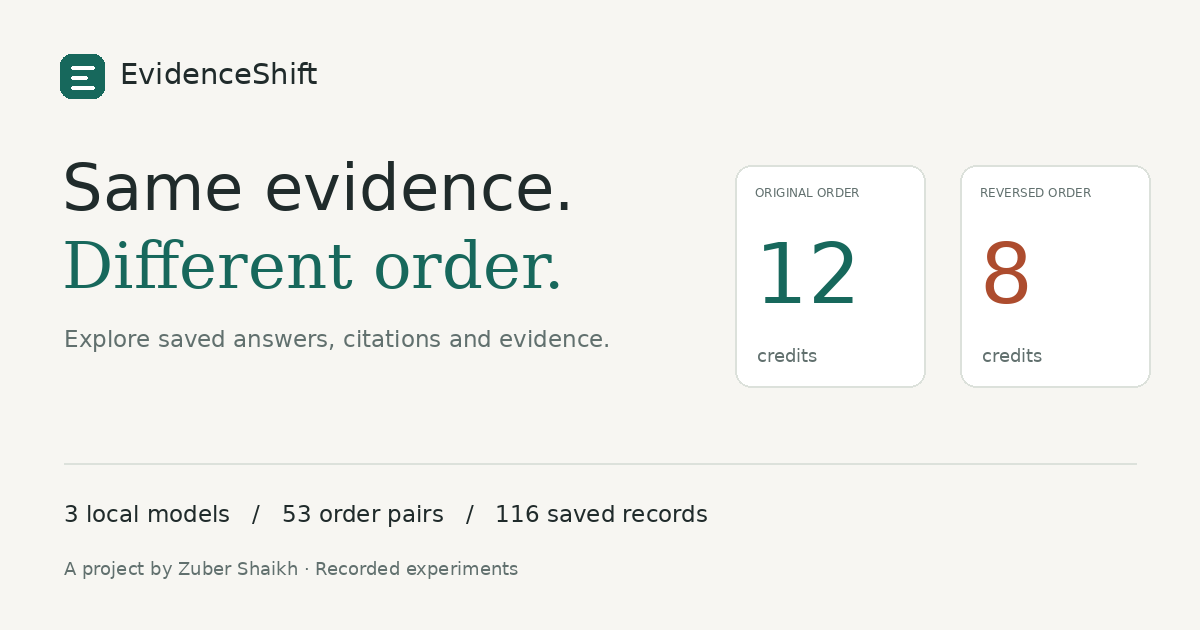
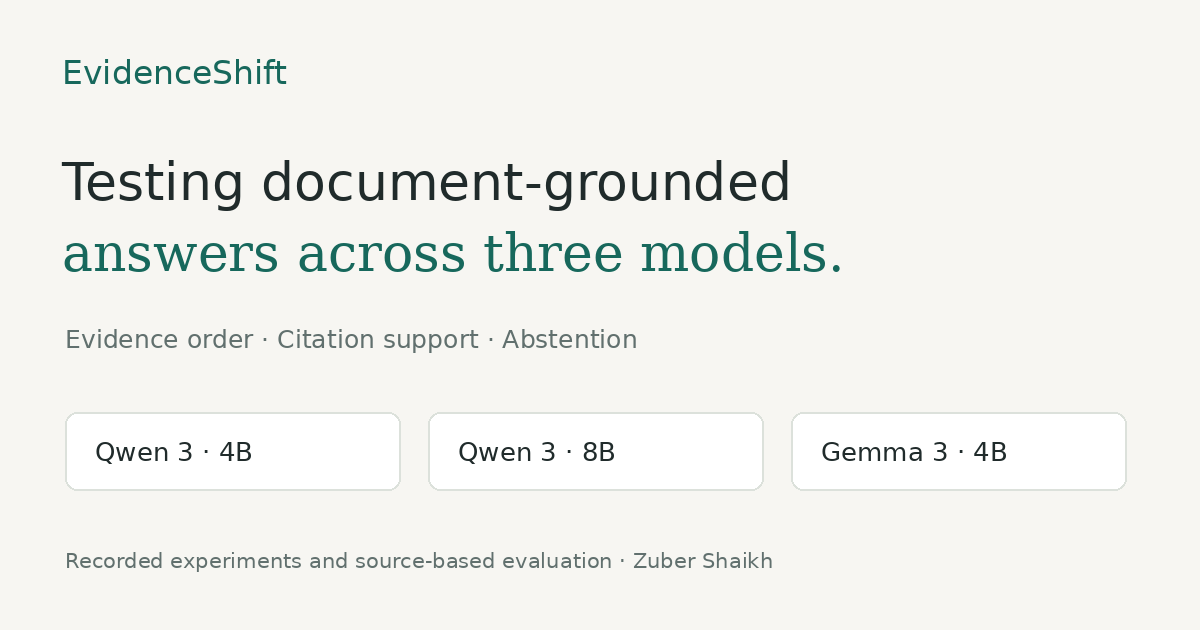
Simplify research narrative and show all three model comparisons

diff --git a/website/index.html b/website/index.html
@@ -21,7 +21,7 @@
   <header class="site-header">
     <a class="brand" href="#home" aria-label="EvidenceShift home"><img src="mark.svg" width="30" height="30" alt=""><span>Evidence<span class="brand-light">Shift</span></span></a>
     <nav aria-label="Main navigation">
-      <a href="#explore">Explore</a><a href="#results">Results</a><a href="#method">Method</a>
+      <a href="#method">Method</a><a href="#results">Results</a><a href="#conclusions">Conclusions</a>
       <a class="repository-link" href="https://github.com/Zuber18/EvidenceShift" target="_blank" rel="noopener noreferrer">GitHub <span aria-hidden="true">↗</span></a>
     </nav>
     <button class="theme-button" id="theme-toggle" type="button" aria-label="Switch color theme" title="Switch color theme">◐</button>
@@ -30,37 +30,36 @@
   <main id="home">
     <section class="hero section-wrap" aria-labelledby="hero-title">
       <div class="hero-copy">
-        <p class="eyebrow"><span class="status-dot"></span> An open experiment in grounded answers</p>
-        <h1 id="hero-title">Same evidence.<br><span>Different order.</span><br>What changes?</h1>
-        <p class="hero-description">A citation can be real and the answer can still be wrong. Explore my local-model experiments to see where evidence order, reasoning, and abstention come apart.</p>
-        <div class="hero-actions"><a class="button button-primary" href="#explore">Explore the evidence <span aria-hidden="true">↗</span></a><a class="text-link" href="#method">Read the approach <span aria-hidden="true">→</span></a></div>
-        <div class="hero-facts" aria-label="Dataset overview"><div><strong>3</strong><span>local models</span></div><div><strong>53</strong><span>paired comparisons</span></div><div><strong>116</strong><span>saved records<small>including 10 code controls</small></span></div></div>
-      </div>
-      <div class="hero-artifact" aria-label="An actual arithmetic failure from the confirmation experiment">
-        <div class="artifact-top"><span class="mono">CASE 06 / HARBOR WORKSHOP</span><span class="mini-pill">Actual saved result</span></div>
-        <p class="artifact-source">Five kits. First two free.<br>Four credits per additional kit.</p>
-        <div class="source-strips" aria-hidden="true"><i></i><i></i><i></i><span>same passages</span><i></i><i></i><i></i></div>
-        <div class="artifact-answers"><div><span class="mono">ORIGINAL ORDER</span><strong class="number-good">12<span>credits</span></strong><span class="artifact-verdict"><span class="small-dot good"></span>Supported answer</span></div><div><span class="mono">REVERSED ORDER</span><strong class="number-bad">8<span>credits</span></strong><span class="artifact-verdict"><span class="small-dot bad"></span>Arithmetic error</span></div></div>
-        <div class="artifact-bottom"><span class="mono">QWEN 3 · 8B</span><span>Both cite the relevant passage.</span></div>
+        <p class="eyebrow">01 / THE PROJECT</p>
+        <h1 id="hero-title">Can the answer survive<br><span>a change in evidence order?</span></h1>
+        <p class="hero-description">EvidenceShift examines the reliability of document-grounded answers across Qwen 3 4B, Qwen 3 8B and Gemma 3 4B. I compare saved outputs with their source passages to check factual support, citation use and abstention.</p>
+        <div class="hero-facts" aria-label="Dataset overview"><div><strong>3</strong><span>local models</span></div><div><strong>53</strong><span>evidence-order pairs</span></div><div><strong>116</strong><span>saved records<small>including 10 code controls</small></span></div></div>
       </div>
     </section>
-
-    <div class="context-ribbon"><div class="section-wrap ribbon-inner"><span><span class="small-dot"></span> Recorded experiment explorer</span><p>Every displayed answer was saved during a local run. Changing a filter does not call a model.</p><span class="mono">20 OCT 2026</span></div></div>
-
+    <section class="section-wrap explanation-section" aria-labelledby="question-title">
+      <p class="eyebrow">02 / WHAT WE ARE TESTING</p><h2 id="question-title">A cited answer still needs checking.</h2>
+      <div class="explanation-columns"><div><h3>What usually happens</h3><p>A document QA system retrieves relevant passages and supplies them to a model, which returns an answer with citations. A citation shows where to look; its presence alone does not establish that the answer follows from the passage.</p></div><div><h3>The experiment</h3><p>If the question and evidence stay the same, does changing passage order change the answer? I also check whether models preserve conditions, distinguish people and events, and abstain when the supplied text does not contain an answer.</p></div></div>
+    </section>
+    <section class="section-wrap method-section" id="method" aria-labelledby="method-title">
+      <div class="method-intro"><p class="eyebrow">03 / HOW WE TEST AND EVALUATE</p><h2 id="method-title">Same inputs.<br>Separate checks.</h2><p>The local project uses MiniLM/Chroma semantic document retrieval. These recorded comparisons start with fixed saved passages, so they isolate response behavior without rerunning retrieval.</p><a class="text-link" href="https://github.com/Zuber18/EvidenceShift/blob/main/docs/METHODOLOGY.md" target="_blank" rel="noopener noreferrer">Full methodology ↗</a></div>
+      <div class="method-steps"><article><span class="step-index">01</span><div><h3>Supply the same evidence in two orders</h3><p>Keep the question, model, passage text, source IDs and request options fixed within each pair. Run the original passage order, then its exact reverse.</p></div></article><article><span class="step-index">02</span><div><h3>Test three complementary protocols</h3><p>Compare direct answers across all three models; compare whole-passage and text-unit ID selection across all three; then examine eight additional fictional cases using Qwen 3 8B. The last protocol contains only that model.</p></div></article><article><span class="step-index">03</span><div><h3>Review meaning as well as format</h3><p>Software checks completion, citation IDs and prescribed abstention. I manually review factual support, citation relevance, qualifications and completeness against the saved passages. Failures and incomplete outputs remain in the record.</p></div></article></div>
+      <div class="limits-note"><strong>How to read the counts</strong><p>The three protocols use different cases and output formats, so their results are reported separately. No-context records are code controls that make no model call; they are excluded from model-call totals. Changing a website selection displays saved data and does not run inference.</p></div>
+    </section>
+    <section class="section-wrap overview-section" id="results" aria-labelledby="overview-title"><p class="eyebrow">04 / RESULTS ACROSS THREE MODELS</p><h2 id="overview-title">All three models, in view.</h2><p class="section-description">The direct-answer baseline contains five questions in two evidence orders for each model: 10 model calls each. The summaries below describe that baseline only.</p><div class="model-overview" id="model-overview"></div></section>
     <section class="section-wrap explorer-section" id="explore" aria-labelledby="explorer-title">
-      <div class="section-heading"><div><p class="eyebrow">01 / FOLLOW THE EVIDENCE</p><h2 id="explorer-title">Look beyond the citation.</h2><p>Pick a recorded question. Compare the answers, then inspect what the sources actually say.</p></div><button class="button button-outline" id="share-comparison" type="button">Copy comparison link <span aria-hidden="true">↗</span></button></div>
+      <div class="section-heading"><div><p class="eyebrow">RECORDED COMPARISONS</p><h2 id="explorer-title">Compare the saved outputs.</h2><p>Choose a question to see every tested model in both evidence orders. Select a model below to inspect its source passages.</p></div><button class="button button-outline" id="share-comparison" type="button">Copy comparison link <span aria-hidden="true">↗</span></button></div>
       <div class="load-state" id="load-state" role="status">Loading the published experiment records…</div>
       <div id="explorer-content" hidden>
         <div class="experiment-tabs" id="experiment-tabs" role="group" aria-label="Recorded experiment"></div>
         <div class="experiment-intro"><p id="experiment-description"></p><a id="experiment-review" href="https://github.com/Zuber18/EvidenceShift/tree/main/results/published/reviews" target="_blank" rel="noopener noreferrer">View assessment <span aria-hidden="true">↗</span></a></div>
         <div class="filter-grid">
           <label class="field question-field">Recorded question<select id="case-select"></select></label>
-          <label class="field">Local model<select id="model-select"></select></label>
+          <label class="field">Inspect sources for<select id="model-select"></select></label>
           <label class="field" id="representation-field" hidden>Evidence representation<select id="representation-select"></select></label>
         </div>
         <div class="comparison-heading"><h3 id="selected-question"></h3><span class="quiet-pill" id="pair-status">Same passages · exact reversal</span></div>
-        <div class="answer-grid" id="answer-grid" aria-label="Saved answer comparison"></div>
-        <div class="comparison-footer"><p>Assessment: project-owner manual review against saved passages. Mechanical checks are shown separately.</p><button class="text-link" id="download-pair" type="button">Download this pair <span aria-hidden="true">↓</span></button></div>
+        <div class="model-comparisons" id="answer-grid" aria-label="Saved answer comparison"></div>
+        <div class="comparison-footer"><p>Assessment: project-owner manual review against saved passages. Mechanical checks are shown separately.</p><button class="text-link" id="download-pair" type="button">Download all model pairs <span aria-hidden="true">↓</span></button></div>
         <div class="evidence-section">
           <div class="evidence-heading"><div><p class="eyebrow">THE SOURCE RECORD</p><h3>Evidence in the order supplied</h3><p>Click a citation above to locate its passage. Source text is preserved as indexed.</p></div><div class="segmented" role="group" aria-label="Source passage order"><button id="evidence-original" type="button" aria-pressed="true">Original</button><button id="evidence-reversed" type="button" aria-pressed="false">Reversed</button></div></div>
           <div class="evidence-toolbar"><span id="evidence-count"></span><label><input type="checkbox" id="cited-only"> Show cited passages only</label></div>
@@ -69,9 +68,9 @@
       </div>
     </section>
 
-    <section class="results-section" id="results" aria-labelledby="results-title">
+    <section class="results-section" id="trial-results" aria-labelledby="results-title">
       <div class="section-wrap">
-        <div class="section-heading"><div><p class="eyebrow">02 / THE RECORDED RESULTS</p><h2 id="results-title">Keep the failures in view.</h2><p>Three experiments answer different questions. Their denominators stay separate.</p></div><button class="button button-outline" id="download-results" type="button">Download filtered CSV <span aria-hidden="true">↓</span></button></div>
+        <div class="section-heading"><div><p class="eyebrow">EXPERIMENT DETAIL</p><h2 id="results-title">Inspect the selected experiment.</h2><p>Counts below follow the selected experiment above. The record table includes every model tested in that experiment.</p></div><button class="button button-outline" id="download-results" type="button">Download filtered CSV <span aria-hidden="true">↓</span></button></div>
         <div class="result-metrics" id="result-metrics"></div>
         <div class="results-summary"><div class="distribution-panel"><h3 id="distribution-title">Recorded assessments</h3><div id="distribution"></div><p class="fine-print">These are counts of saved trials, not an accuracy estimate over arbitrary documents.</p></div><div class="model-panel"><h3>Models in this experiment</h3><div id="model-summary"></div><p class="fine-print">Completion is a software check. It does not establish factual correctness.</p></div></div>
         <div class="records-heading"><h3>Browse the trial records</h3><div class="record-filters"><label class="field compact-field">Assessment<select id="outcome-filter"><option value="all">All assessments</option></select></label><label class="control-checkbox"><input id="include-controls" type="checkbox"> Include code controls</label></div></div>
@@ -82,13 +81,7 @@
       </div>
     </section>
 
-    <section class="section-wrap method-section" id="method" aria-labelledby="method-title">
-      <div class="method-intro"><p class="eyebrow">03 / WHAT I AM MEASURING</p><h2 id="method-title">Structure is not<br>the same as support.</h2><p>I built EvidenceShift to make the difference inspectable: what the model received, what it returned, and whether its answer follows from the cited source.</p><a class="text-link" href="https://github.com/Zuber18/EvidenceShift/blob/main/docs/METHODOLOGY.md" target="_blank" rel="noopener noreferrer">Read the full methodology <span aria-hidden="true">↗</span></a></div>
-      <div class="method-steps"><article><span class="step-index">01</span><div><h3>Hold the evidence fixed</h3><p>Keep the question, passage text, source IDs, model, and request options fixed. Reverse only the passage order.</p></div></article><article><span class="step-index">02</span><div><h3>Separate the checks</h3><p>Inspect completion and citation membership separately from factual support, conditions, relevance, and completeness.</p></div></article><article><span class="step-index">03</span><div><h3>Retain the original output</h3><p>Keep failed completions, false abstentions, and wrong answers. Review against saved passages without replacing failures with favorable reruns.</p></div></article></div>
-      <div class="limits-note"><strong>What this explorer establishes</strong><p>It presents recorded outcomes from limited local experiments. The fixed-context comparisons do not test new document ingestion or retrieval. Single outputs per order are not a population-level causal estimate. The reserved questions were not independently held out.</p></div>
-    </section>
-
-    <section class="next-section section-wrap" aria-labelledby="next-title"><div><p class="eyebrow">NEXT / BRING YOUR OWN DOCUMENT</p><h2 id="next-title">The live workspace<br>is the next experiment.</h2><p>This website explores saved records. The local project already supports PDF, DOCX, TXT and Markdown with MiniLM/Chroma semantic retrieval. Public live inference is not connected here yet.</p></div><a class="button button-primary" href="https://github.com/Zuber18/EvidenceShift#start-the-local-viewer" target="_blank" rel="noopener noreferrer">Run the local workspace <span aria-hidden="true">↗</span></a></section>
+    <section class="section-wrap conclusion-section" id="conclusions" aria-labelledby="conclusion-title"><p class="eyebrow">05 / CONCLUSIONS</p><h2 id="conclusion-title">Citation validity is only the first check.</h2><ol class="conclusion-list"><li><strong>Evidence order can change an answer.</strong> In the Qwen 8B confirmation, the same kit-pricing passage led to 12 credits in one order and 8 in the other. Both outputs cited the relevant source.</li><li><strong>Completing a response is not the same as answering reliably.</strong> The direct baseline retained Qwen 4B output-limit failures and errors or unjustified abstentions from the other models. The evidence-selection matrix passed structural checks while still returning irrelevant or incomplete evidence.</li><li><strong>Abstention needs its own review.</strong> Some answers supplied a correct core fact and then claimed the evidence was insufficient. Others answered questions whose facts were absent from the source.</li><li><strong>These results describe the saved tests.</strong> They do not establish a universal model ranking or an accuracy rate over arbitrary documents. Single outputs per order do not establish a population-level causal effect, and the additional questions were not independently held out.</li></ol><p class="conclusion-close">The practical lesson: inspect what each citation supports, preserve the conditions that matter, and retain failures alongside successful outputs.</p></section>
   </main>
 
   <footer class="site-footer section-wrap"><div><a class="brand" href="#home"><img src="mark.svg" width="26" height="26" alt=""><span>Evidence<span class="brand-light">Shift</span></span></a><p>A project by Zuber Shaikh.</p></div><div class="footer-links"><a href="https://github.com/Zuber18/EvidenceShift" target="_blank" rel="noopener noreferrer">Source code ↗</a><a href="https://github.com/Zuber18/EvidenceShift/tree/main/references" target="_blank" rel="noopener noreferrer">References ↗</a><a href="https://github.com/Zuber18/EvidenceShift/blob/main/LICENSE" target="_blank" rel="noopener noreferrer">MIT license ↗</a><span>No live inference · No account required</span></div></footer>

diff --git a/website/app.js b/website/app.js
@@ -1,7 +1,7 @@
-import {label, modelLabel, tone, pairFor, filteredRecords, citationIds, assessmentDistribution, toCsv, safeState} from './core.mjs';
+import {label, modelLabel, tone, pairFor, filteredRecords, citationIds, assessmentDistribution, toCsv, safeState, modelComparisons} from './core.mjs';
 
 const $ = id => document.getElementById(id);
-const state = {data:null, experiment:'direct_confirmation',model:'qwen3:8b',representation:'direct',caseId:'confirm_6',order:'retrieved',outcome:'all',controls:false,citedOnly:false,highlight:null};
+const state = {data:null, experiment:'direct_answer',model:'qwen3:8b',representation:'direct',caseId:'1f939d31',order:'retrieved',outcome:'all',controls:false,citedOnly:false,highlight:null};
 let toastTimer;
 
 /** All saved source/model content is inserted as text, never trusted HTML. */
@@ -28,7 +28,7 @@ function fillSelect(element, items, selected) {
 }
 function renderFilters() {
   const exp=experiment();
-  $('experiment-tabs').replaceChildren(...state.data.experiments.map((item,index)=>{
+  $('experiment-tabs').replaceChildren(...[...state.data.experiments].sort((a,b)=>['direct_answer','model_matrix','direct_confirmation'].indexOf(a.id)-['direct_answer','model_matrix','direct_confirmation'].indexOf(b.id)).map((item,index)=>{
     const button=node('button','experiment-tab');button.type='button';button.setAttribute('aria-pressed',String(item.id===state.experiment));
     button.append(node('span','tab-number',String(index+1).padStart(2,'0')),node('span','',item.title));
     button.addEventListener('click',()=>{
@@ -45,7 +45,7 @@ function renderFilters() {
   const multiple=exp.representations.length>1;
   $('representation-field').hidden=!multiple;
   document.querySelector('.filter-grid').classList.toggle('has-representation',multiple);
-  const outcomes=[...new Set(exp.records.filter(r=>r.model===state.model && r.representation===state.representation && (state.controls||r.order!=='no_context')).map(r=>r.assessment))].sort();
+  const outcomes=[...new Set(exp.records.filter(r=>r.representation===state.representation && (state.controls||r.order!=='no_context')).map(r=>r.assessment))].sort();
   if (!outcomes.includes(state.outcome)) state.outcome='all';
   fillSelect($('outcome-filter'),[['all','All assessments'],...outcomes.map(v=>[v,label(v)])],state.outcome);
 }
@@ -62,7 +62,7 @@ function renderAnswerText(container, text, record) {
       button.setAttribute('aria-label','Inspect cited source '+ids.join(', '));
       button.title=ids.length>1?'Open the first passage in this citation group. All passages remain available below.':'Open this source passage';
       button.addEventListener('click',()=>{
-        state.order=record.order;state.highlight=ids[0];renderEvidence();syncUrl();
+        state.model=record.model;state.order=record.order;state.highlight=ids[0];state.citedOnly=false;$('cited-only').checked=false;renderFilters();renderEvidence();syncUrl();
         const target=document.getElementById('passage-'+ids[0]);
         if (target) {target.scrollIntoView({behavior:matchMedia('(prefers-reduced-motion: reduce)').matches?'auto':'smooth',block:'nearest'});target.focus({preventScroll:true});}
       });container.append(button);
@@ -98,7 +98,15 @@ function renderAnswer(record,order) {
 function renderPair() {
   const records=pair();
   $('selected-question').textContent=experiment().cases.find(c=>c.id===state.caseId).question;
-  $('answer-grid').replaceChildren(...['retrieved','reversed'].map(order=>records[order]?renderAnswer(records[order],order):node('p','load-state','This saved order is unavailable.')));
+  $('answer-grid').replaceChildren(...modelComparisons(experiment(),state.representation,state.caseId).map(({model,pair:records})=>{
+    const group=node('section','model-comparison');
+    const heading=node('div','model-comparison-heading');heading.append(node('h4','',modelLabel(model)));
+    const inspect=node('button','text-link','Inspect this model’s sources ↓');inspect.type='button';
+    inspect.addEventListener('click',()=>{state.model=model;state.highlight=null;renderFilters();renderEvidence();syncUrl();document.querySelector('.evidence-section').scrollIntoView({behavior:'smooth',block:'start'});});
+    heading.append(inspect);const grid=node('div','answer-grid');
+    grid.append(...['retrieved','reversed'].map(order=>records[order]?renderAnswer(records[order],order):node('p','load-state','This saved order is unavailable.')));
+    group.append(heading,grid);return group;
+  }));
   const same=records.retrieved && records.reversed && JSON.stringify(records.retrieved.context_ids)===JSON.stringify([...records.reversed.context_ids].reverse());
   $('pair-status').textContent=same?`${records.retrieved.context_ids.length} passages · exact reversal`:'Inspect the saved context';
 }
@@ -110,7 +118,7 @@ function renderEvidence() {
   if (!record) {$('evidence-list').replaceChildren();return;}
   const cited=citationIds(record.answer,record.context_ids);
   const ids=state.citedOnly?record.context_ids.filter(id=>cited.has(id)):record.context_ids;
-  $('evidence-count').textContent=`${ids.length} of ${record.context_ids.length} supplied passages · ${state.order==='retrieved'?'original':'reversed'} order`;
+  $('evidence-count').textContent=`${modelLabel(state.model)} · ${ids.length} of ${record.context_ids.length} supplied passages · ${state.order==='retrieved'?'original':'reversed'} order`;
   const elements=ids.map(id=>{
     const passage=state.data.passages[id],article=node('article','passage'+(state.highlight===id?' highlighted':''));
     article.id='passage-'+id;article.tabIndex=-1;
@@ -144,10 +152,28 @@ function renderSummary() {
   $('result-notes').replaceChildren(node('strong','','Reading this experiment. '),document.createTextNode(note));
 }
 
-function tableRecords() {return filteredRecords(experiment(),state.model,state.representation,state.outcome,state.controls);}
+/** The overview always uses the three-model direct baseline, regardless of the selected detail tab. */
+function renderModelOverview() {
+  const baseline=state.data.experiments.find(e=>e.id==='direct_answer');
+  const descriptions={
+    'qwen3:4b':'Six outputs reached the generation limit. The other four placed analysis in the answer field.',
+    'qwen3:8b':'Three supported answers and four justified abstentions. The remaining trials include one role reversal and two unjustified abstentions.',
+    'gemma3:4b':'Three justified abstentions. The remaining trials contain contradictions, wrong facts, citation defects or unsupported extra text.'
+  };
+  $('model-overview').replaceChildren(...['qwen3:4b','qwen3:8b','gemma3:4b'].map(model=>{
+    const records=baseline.records.filter(r=>r.model===model&&r.order!=='no_context');
+    const completed=records.filter(r=>r.checks.completed??r.status==='candidate_recorded').length;
+    const card=node('article','model-overview-card');card.append(node('h3','',modelLabel(model)),node('p','model-overview-count',`${records.length} model calls · ${completed} completed`),node('p','',descriptions[model]));
+    const button=node('button','text-link','Inspect saved comparisons ↓');button.type='button';
+    button.addEventListener('click',()=>{Object.assign(state,safeState(state.data,new URLSearchParams({experiment:'direct_answer',model})),{outcome:'all',highlight:null,controls:false,citedOnly:false});$('include-controls').checked=false;$('cited-only').checked=false;renderAll();$('explore').scrollIntoView({behavior:'smooth',block:'start'});});
+    card.append(button);return card;
+  }));
+}
+
+function tableRecords() {return filteredRecords(experiment(),'all',state.representation,state.outcome,state.controls);}
 function renderTable() {
   const records=tableRecords();
-  $('table-caption').textContent=`${records.length} saved records · ${modelLabel(state.model)}${state.representation==='direct'?'':' · '+(state.representation==='passages'?'whole passages':'text units')}${state.controls?' · controls included':' · code controls excluded'}. Figures above describe the entire selected experiment.`;
+  $('table-caption').textContent=`${records.length} saved records · ${experiment().models.length} tested model${experiment().models.length===1?'':'s'}${state.representation==='direct'?'':' · '+(state.representation==='passages'?'whole passages':'text units')}${state.controls?' · controls included':' · code controls excluded'}. Figures above describe the entire selected experiment.`;
   $('records-body').replaceChildren(...records.map(record=>{
     const row=node('tr');
     row.append(node('td','',record.question),node('td','',modelLabel(record.model)),node('td','',record.order==='no_context'?'No context':record.order==='retrieved'?'Original':'Reversed'));
@@ -157,7 +183,7 @@ function renderTable() {
       const link=node('a','','↗');link.href=sourceUrl(record.raw_path);link.target='_blank';link.rel='noopener noreferrer';link.setAttribute('aria-label','Inspect zero-model-call control record');action.append(link);
     } else {
       const button=node('button','','↗');button.type='button';button.setAttribute('aria-label','Inspect '+record.question+' in '+record.order+' order');
-      button.addEventListener('click',()=>{state.caseId=record.case_id;state.order=record.order;state.highlight=null;renderFilters();renderPair();renderEvidence();syncUrl();document.getElementById('explore').scrollIntoView({behavior:'smooth',block:'start'});});action.append(button);
+      button.addEventListener('click',()=>{state.model=record.model;state.caseId=record.case_id;state.order=record.order;state.highlight=null;renderFilters();renderPair();renderEvidence();syncUrl();document.getElementById('explore').scrollIntoView({behavior:'smooth',block:'start'});});action.append(button);
     }
     row.append(action);return row;
   }));
@@ -177,8 +203,8 @@ function initializeEvents() {
   $('outcome-filter').addEventListener('change',event=>{state.outcome=event.target.value;renderTable();});
   $('include-controls').addEventListener('change',event=>{state.controls=event.target.checked;renderFilters();renderTable();});
   $('download-pair').addEventListener('click',()=>{
-    const records=Object.values(pair()),ids=new Set(records.flatMap(r=>r.context_ids));
-    download(`evidenceshift-${state.experiment}-${state.caseId}-${state.model.replace(':','-')}.json`,JSON.stringify({mode:'recorded_results',source_commit:state.data.source_commit,records,passages:[...ids].map(id=>state.data.passages[id])},null,2)+'\n','application/json');
+    const records=modelComparisons(experiment(),state.representation,state.caseId).flatMap(item=>Object.values(item.pair)),ids=new Set(records.flatMap(r=>r.context_ids));
+    download(`evidenceshift-${state.experiment}-${state.caseId}-all-models.json`,JSON.stringify({mode:'recorded_results',source_commit:state.data.source_commit,records,passages:[...ids].map(id=>state.data.passages[id])},null,2)+'\n','application/json');
   });
   $('download-results').addEventListener('click',()=>download(`evidenceshift-${state.experiment}-filtered.csv`,toCsv(tableRecords()),'text/csv;charset=utf-8'));
   $('share-comparison').addEventListener('click',async()=>{
@@ -203,7 +229,7 @@ async function start() {
     if (!response.ok) throw new Error('Dataset request failed');
     const data=await response.json();
     if (data.schema_version!==1 || !data.experiments?.length) throw new Error('Unexpected dataset schema');
-    state.data=data;Object.assign(state,safeState(data,new URLSearchParams(location.search)));
+    state.data=data;renderModelOverview();Object.assign(state,safeState(data,new URLSearchParams(location.search)));
     initializeEvents();renderAll();$('load-state').hidden=true;$('explorer-content').hidden=false;
   } catch {
     $('load-state').classList.add('error');$('load-state').textContent='The saved records could not be loaded. Reload this page, or inspect results/published in the GitHub repository.';

diff --git a/website/styles.css b/website/styles.css
@@ -8,3 +8,9 @@
 .hero>* , .results-summary>* , .passage>div , .method-section>*{min-width:0}
 @media(max-width:760px){.hero h1{font-size:clamp(39px,12vw,57px)}.hero-facts{gap:18px;flex-wrap:wrap}.hero-actions{gap:16px;flex-wrap:wrap}.site-header nav{gap:10px}.site-header{gap:8px}.hero-artifact{margin-inline:3px;padding:20px 17px}.artifact-top{flex-wrap:wrap}.artifact-answers strong>span{margin-left:5px}.source-strips i{min-width:0;flex-shrink:1}.passage-meta{min-width:0}.table-scroll{max-width:100%}}
 @media(prefers-reduced-motion:reduce){html,.evidence-list{scroll-behavior:auto}*,*:before,*:after{transition:none!important;animation:none!important}.button:hover{transform:none}}
+
+/* A linear research narrative, followed by the saved comparisons and conclusions. */
+.hero{display:block;padding-block:64px 48px}.hero-copy{max-width:950px}.hero h1{font-size:clamp(39px,4.5vw,62px);line-height:1.12}.hero-description{max-width:780px;font-size:17px}.hero-facts{margin-top:28px}.hero-facts span{font-size:11px}.explanation-section{padding-block:36px 48px;border-block:1px solid var(--line)}.explanation-section h2,.overview-section h2,.conclusion-section h2{font-size:32px;line-height:1.2;letter-spacing:-1px;font-weight:530;margin-top:12px}.explanation-columns{display:grid;grid-template-columns:1fr 1fr;gap:50px;margin-top:25px}.explanation-columns h3{font-size:15px;margin-bottom:9px}.explanation-columns p,.section-description{font-size:13px;line-height:1.85;color:var(--muted)}.method-section{padding-block:48px;gap:30px 65px}.overview-section{padding-block:40px 24px;border-top:1px solid var(--line)}.section-description{margin-top:14px;max-width:850px}.model-overview{display:grid;grid-template-columns:repeat(3,minmax(0,1fr));gap:16px;margin-top:26px}.model-overview-card{padding:24px;background:var(--paper);border:1px solid var(--line);border-radius:8px;display:flex;flex-direction:column;gap:14px}.model-overview-card h3{font-size:19px;font-weight:600}.model-overview-card p{font-size:12px;color:var(--muted);line-height:1.8}.model-overview-card .model-overview-count{font-family:var(--mono);font-size:10px;color:var(--accent)}.model-overview-card button{margin-top:auto;padding-top:9px;font-size:11px}.explorer-section{padding-top:34px}.model-comparisons{display:flex;flex-direction:column;gap:30px}.model-comparison-heading{display:flex;align-items:center;justify-content:space-between;gap:18px;margin-bottom:12px}.model-comparison-heading h4{font-size:17px;margin:0;font-weight:600}.model-comparison-heading button{font-size:10px}.conclusion-section{padding-block:52px 57px;border-bottom:1px solid var(--line)}.conclusion-list{max-width:940px;padding-left:22px;margin-block:27px 0}.conclusion-list li{padding-left:8px;margin-block:17px;font-size:13px;line-height:1.9;color:var(--muted)}.conclusion-list strong{color:var(--ink)}.conclusion-close{font-size:14px;line-height:1.9;color:var(--accent);max-width:900px;margin-top:26px}
+@media(max-width:760px){.hero{padding-block:38px}.hero-copy{max-width:100%}.hero h1{font-size:clamp(32px,8.4vw,49px);letter-spacing:-1.5px}.hero h1>span{letter-spacing:-1.3px}.hero-description{font-size:14px}.hero-facts{gap:20px}.site-header nav{gap:11px;font-size:10px}.explanation-section{padding-block:28px}.explanation-section h2,.overview-section h2,.conclusion-section h2{font-size:28px}.explanation-columns{grid-template-columns:1fr;gap:23px}.method-section{padding-block:35px}.model-overview{grid-template-columns:1fr;gap:12px}.overview-section{padding-top:30px}.model-overview-card{padding:20px;gap:10px}.model-comparison-heading{align-items:flex-start;flex-wrap:wrap;gap:8px}.explorer-section{padding-top:28px}.conclusion-section{padding-block:35px}.site-header .brand{font-size:17px}.site-header .brand img{width:24px;height:24px}.site-header{gap:5px}.site-header .brand{gap:7px}}
+
+@media(max-width:760px){.site-header{height:auto;min-height:94px;display:grid;grid-template-columns:1fr 28px;padding-block:13px;gap:13px 10px}.site-header>.brand{grid-column:1;grid-row:1;justify-self:start}.site-header>.theme-button{grid-column:2;grid-row:1}.site-header nav{grid-column:1/-1;grid-row:2;margin-left:0;justify-content:space-between;font-size:11px;gap:20px}.hero{padding-top:30px}}

diff --git a/docs/WEBSITE.md b/docs/WEBSITE.md
@@ -5,6 +5,15 @@ requiring a Python environment or a model download. The browser presents recorde
 answers, manual assessments, original source passages and mechanical checks.
 Changing a question or filter does not perform inference.
 
+The page follows a linear sequence: project introduction, research question,
+method and evaluation, results, and conclusions. The default detail view is the
+three-model direct baseline. Each selected question shows both evidence orders
+for all models tested in that protocol; the source selector only chooses whose
+citations to inspect. Trial tables and CSV exports include every tested model.
+Comparison JSON exports include every model pair for the selected question.
+The Qwen 8B confirmation remains a single-model protocol and is identified as such.
+
+
 ## Included experiments
 
 | Experiment | Model calls | Code controls | Exact order pairs |
